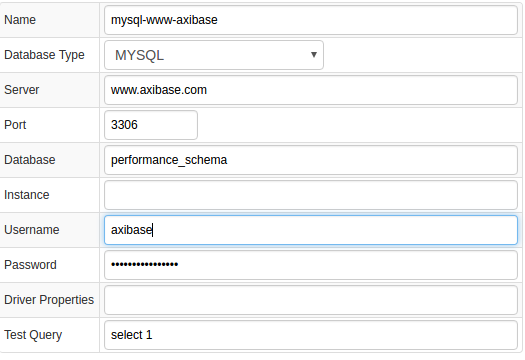
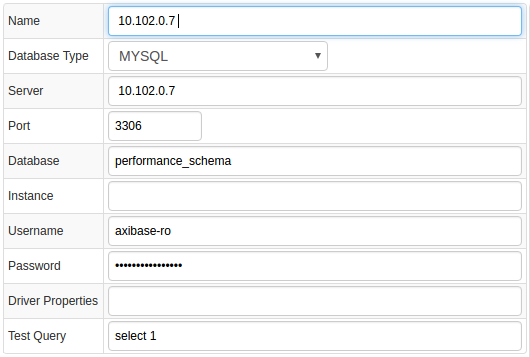
mysql: fix credentials problems

Changed region(s): [[0.0, 0.0, 1.0, 1.0]]

diff --git a/jobs/examples/mysql/README.md b/jobs/examples/mysql/README.md
@@ -16,7 +16,7 @@
 
 ### Configure MySQL Server Database Connection
 
-* Open **Data Sources:Databases** page, select `mysql-www-axibase` database.
+* Open **Data Sources:Databases** page, select `10.102.0.7` database.
 * Provide connection parameters to the target MySQL Server database as displayed below:
 
 ![](images/mysql-datasource.png)
@@ -53,7 +53,7 @@ SELECT 1
 ### Verify Metrics in ATSD
 
 * Login into ATSD
-* Click on Metrics tab and filter metrics by name 'oem.*'
+* Click on Metrics tab and filter metrics by name 'mysql.*'
 
 ![](images/mysql-metrics.png)
 
